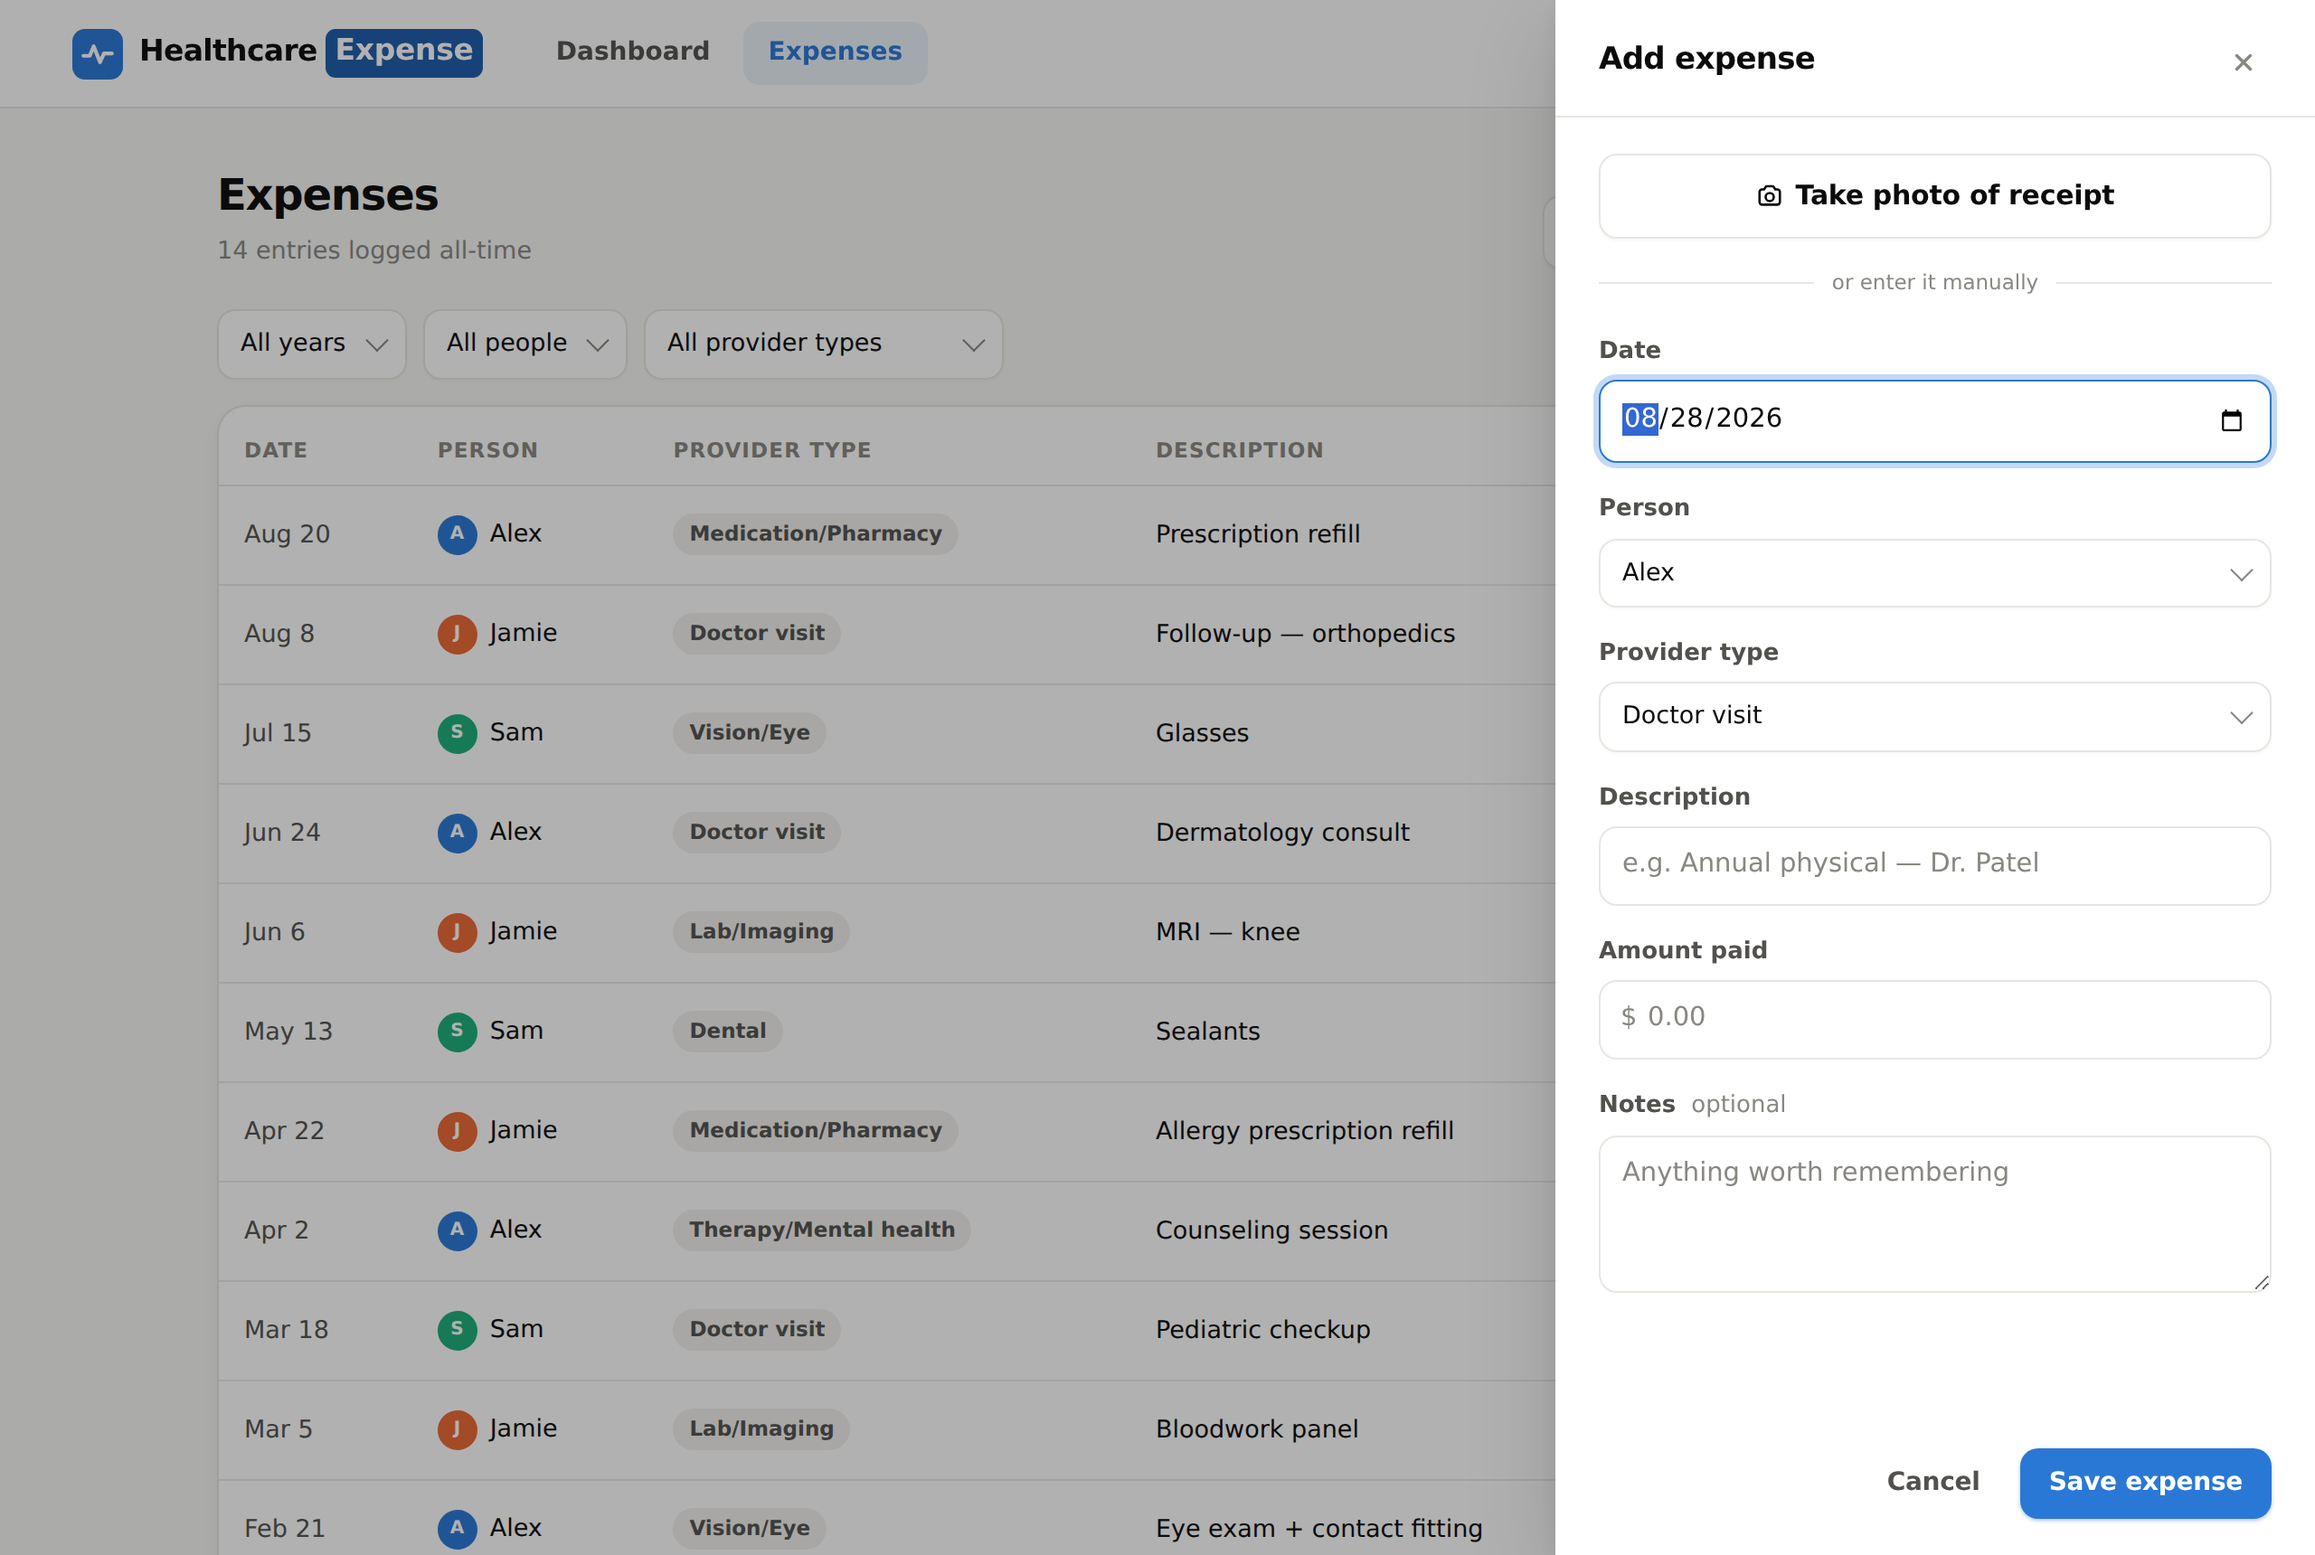
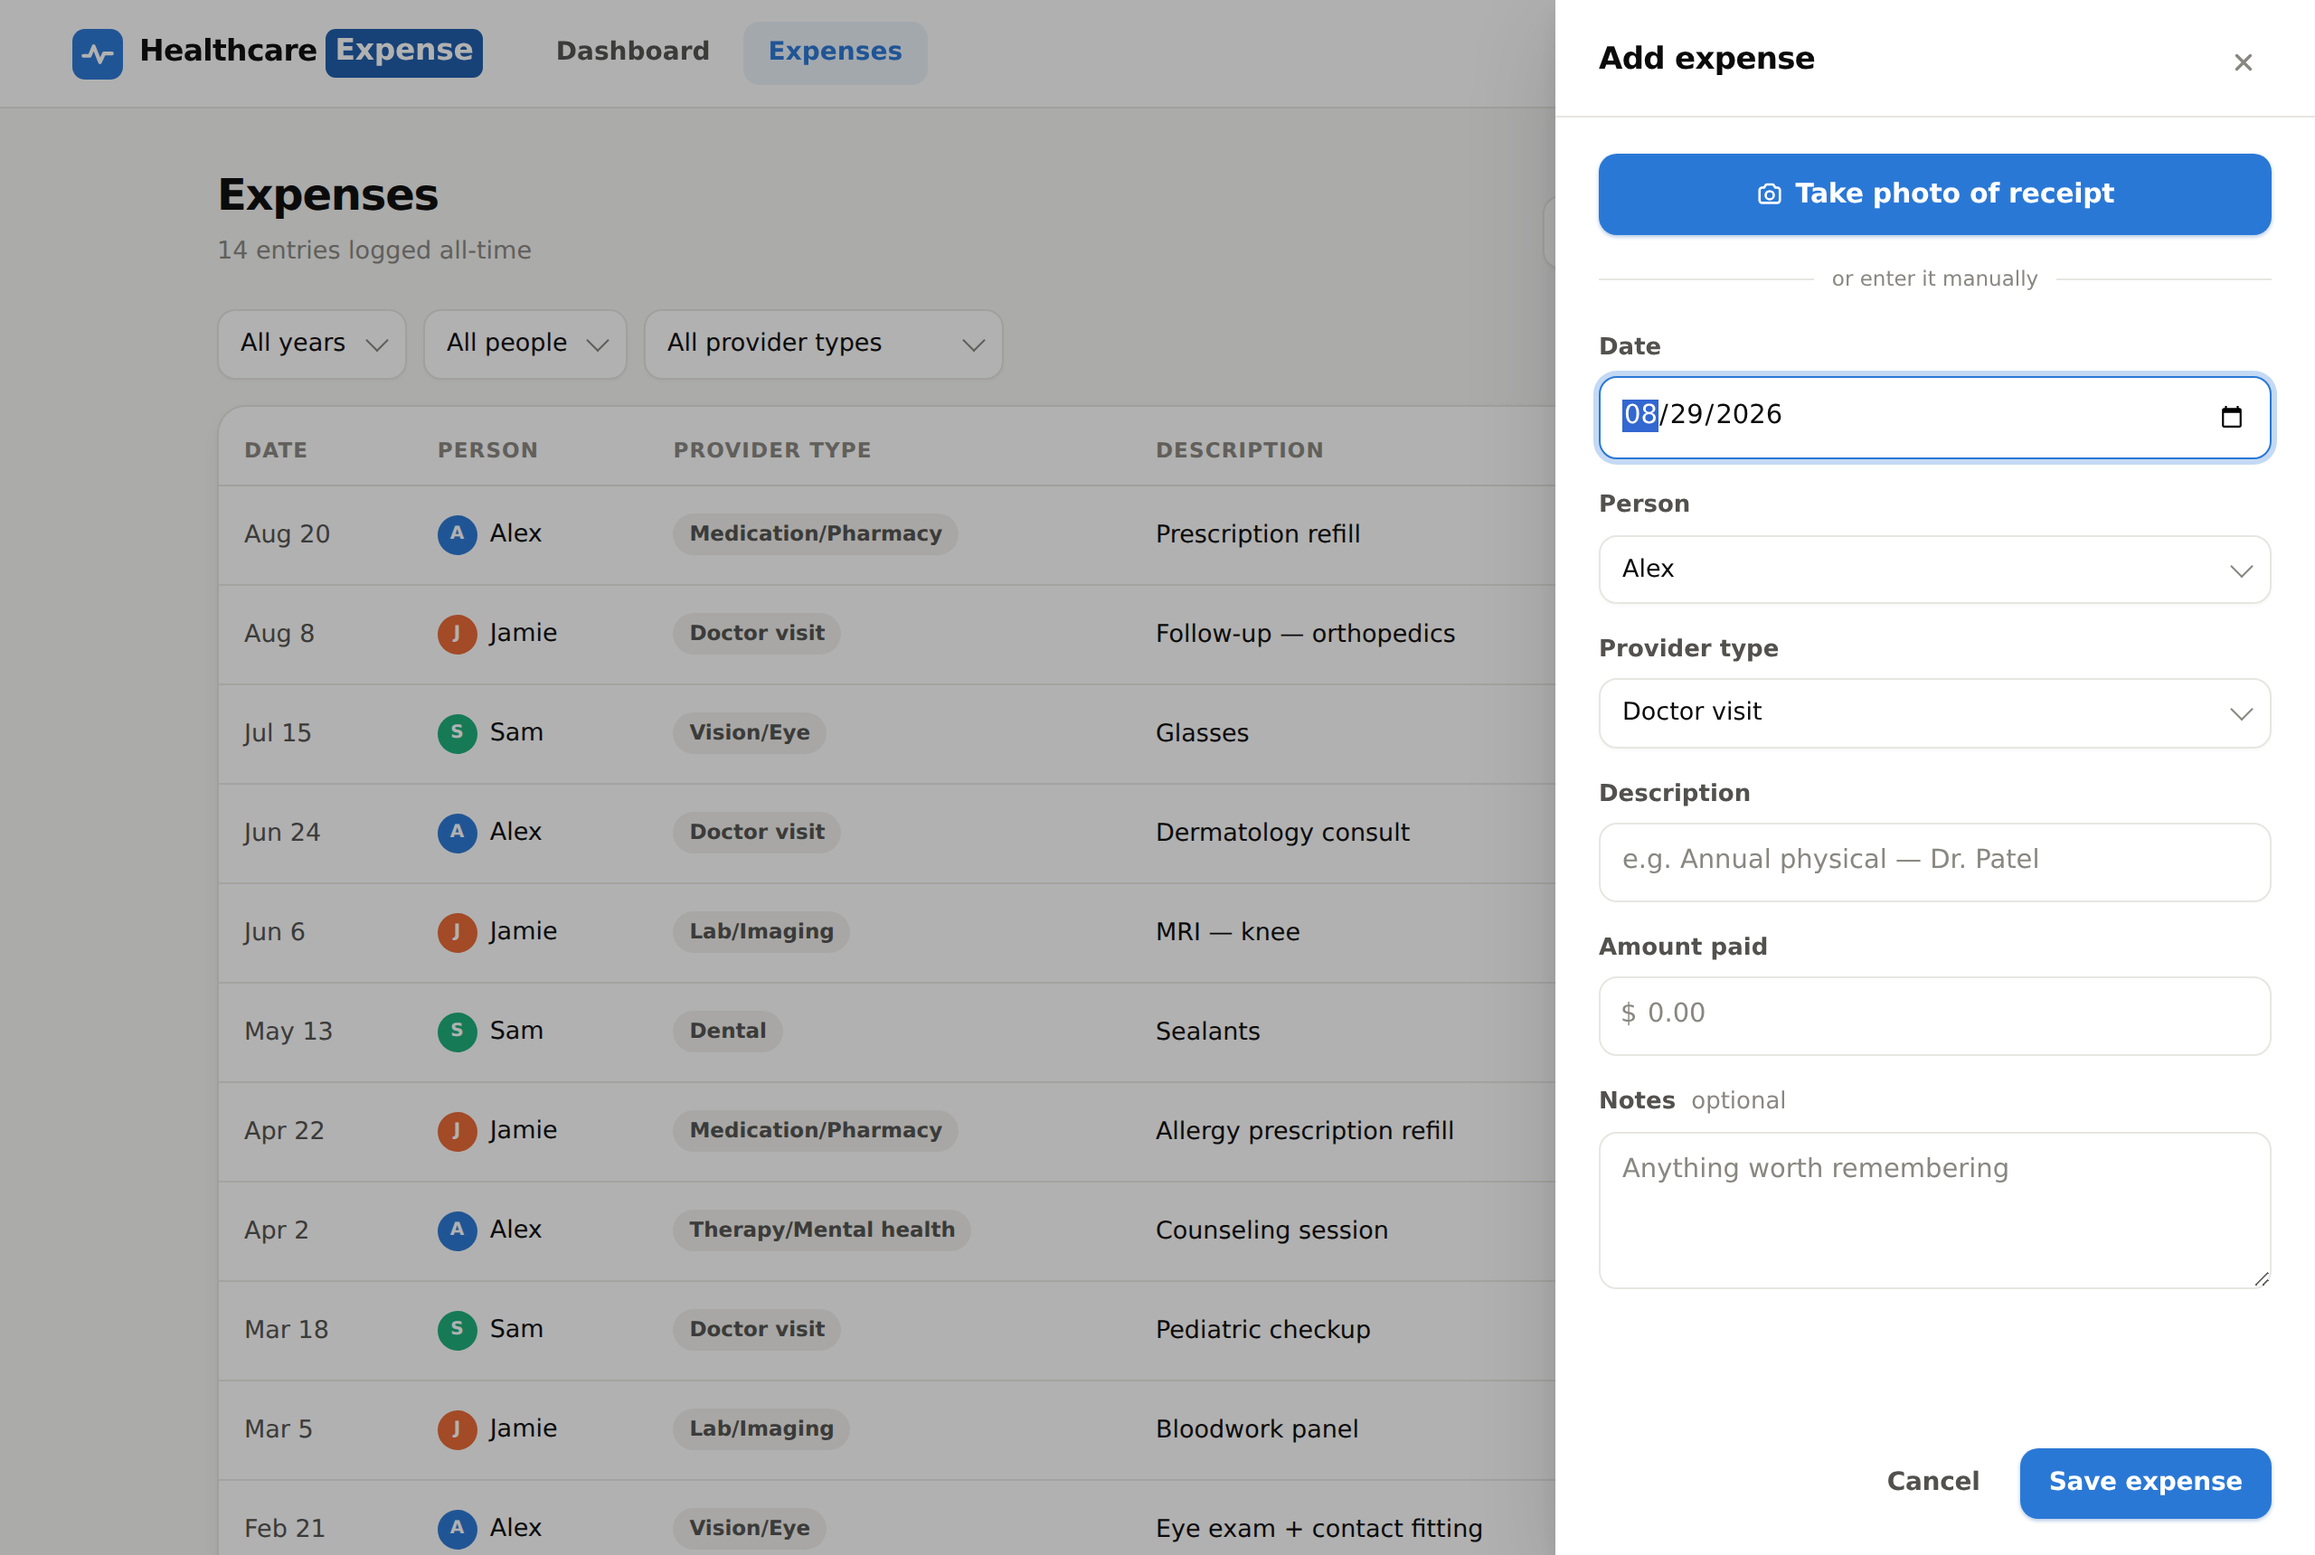
Make the "Take photo of receipt" button blue (#7)
'Take photo of receipt' used btn-secondary (white on white), which blended
into the slide-over background. Switched it to btn-primary (solid accent
blue, white text) to match the other primary actions and make it stand out
as the fast path. 44/44 e2e checks pass; regenerated demo screenshots.

Claude-Session: https://claude.ai/code/session_01ENYLht3gUDAC8rWHqoDpN3

diff --git a/public/index.html b/public/index.html
@@ -188,7 +188,7 @@
       <input type="hidden" name="id" />
       <div id="scan-block">
         <input type="file" id="receipt-input" accept="image/*" capture="environment" hidden />
-        <button type="button" class="btn btn-secondary btn-block" id="scan-btn">
+        <button type="button" class="btn btn-primary btn-block" id="scan-btn">
           <svg class="icon" viewBox="0 0 16 16" aria-hidden="true"><path d="M2 5.5A1.5 1.5 0 0 1 3.5 4h1.2l.9-1.4a1 1 0 0 1 .84-.46h3.12a1 1 0 0 1 .84.46l.9 1.4h1.2A1.5 1.5 0 0 1 14 5.5v6A1.5 1.5 0 0 1 12.5 13h-9A1.5 1.5 0 0 1 2 11.5v-6Z" fill="none" stroke="currentColor" stroke-width="1.4" stroke-linejoin="round"/><circle cx="8" cy="8.5" r="2.4" fill="none" stroke="currentColor" stroke-width="1.4"/></svg>
           <span id="scan-btn-label">Take photo of receipt</span>
         </button>
